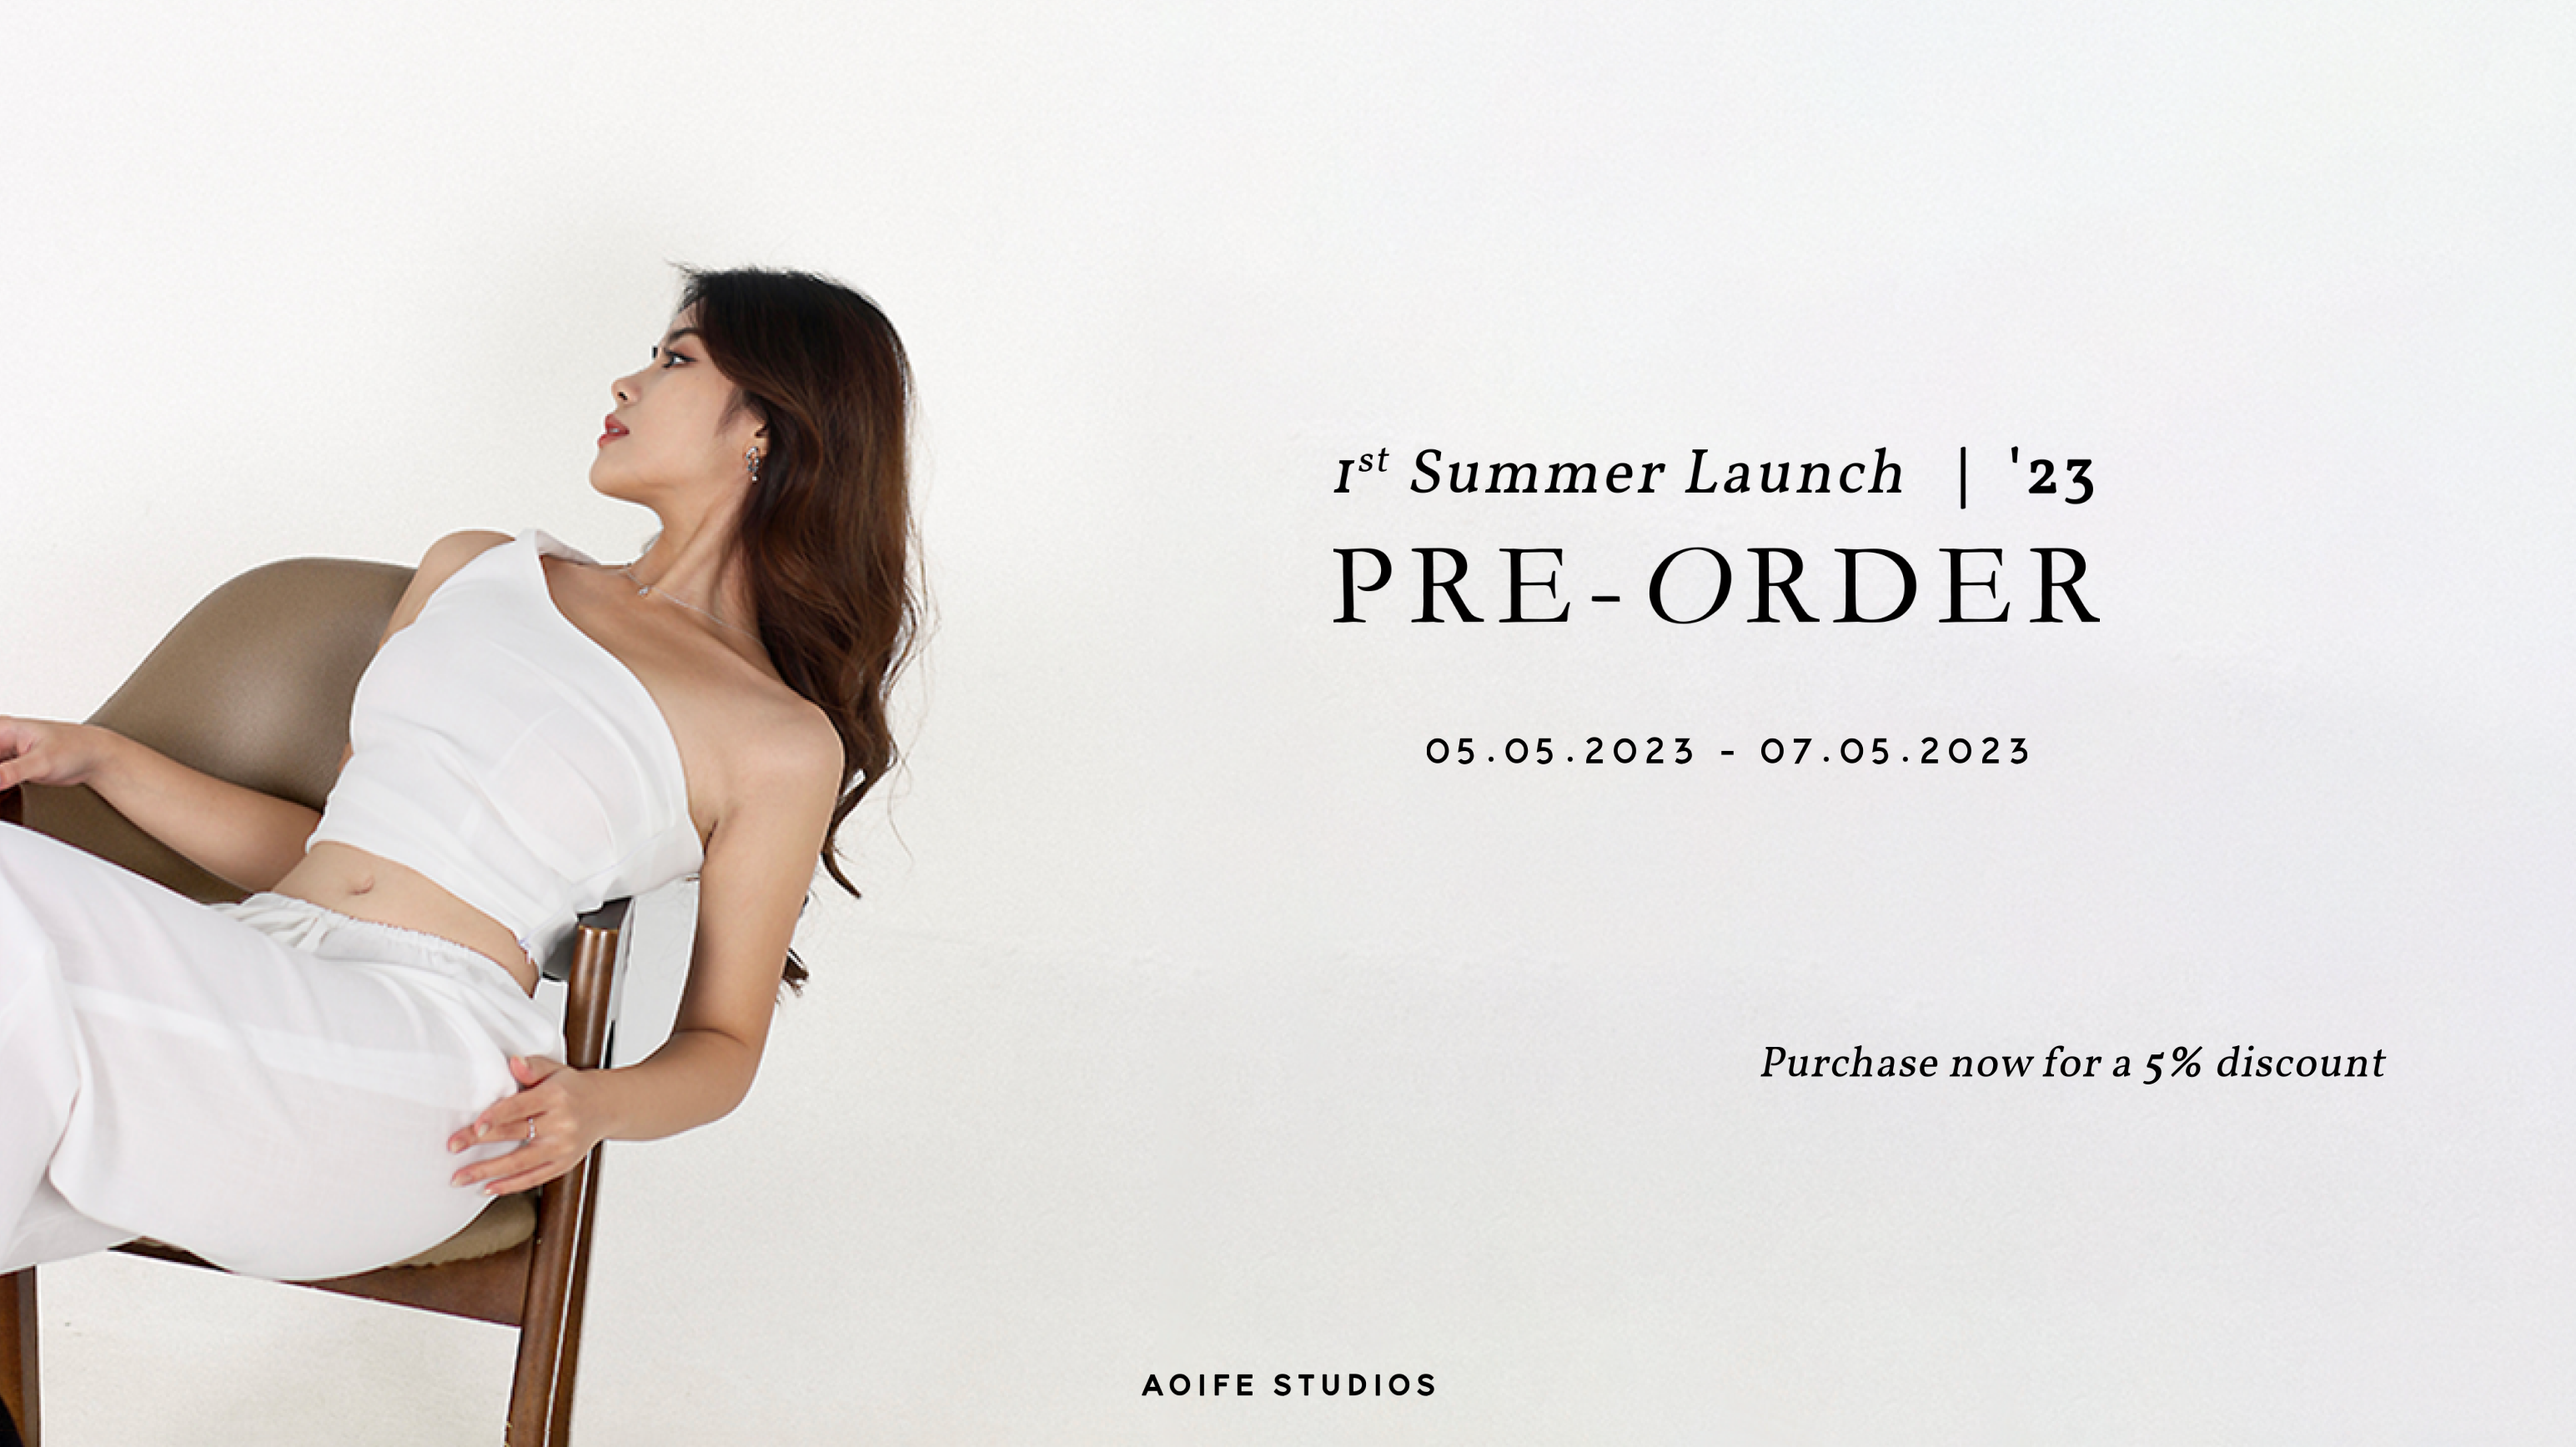
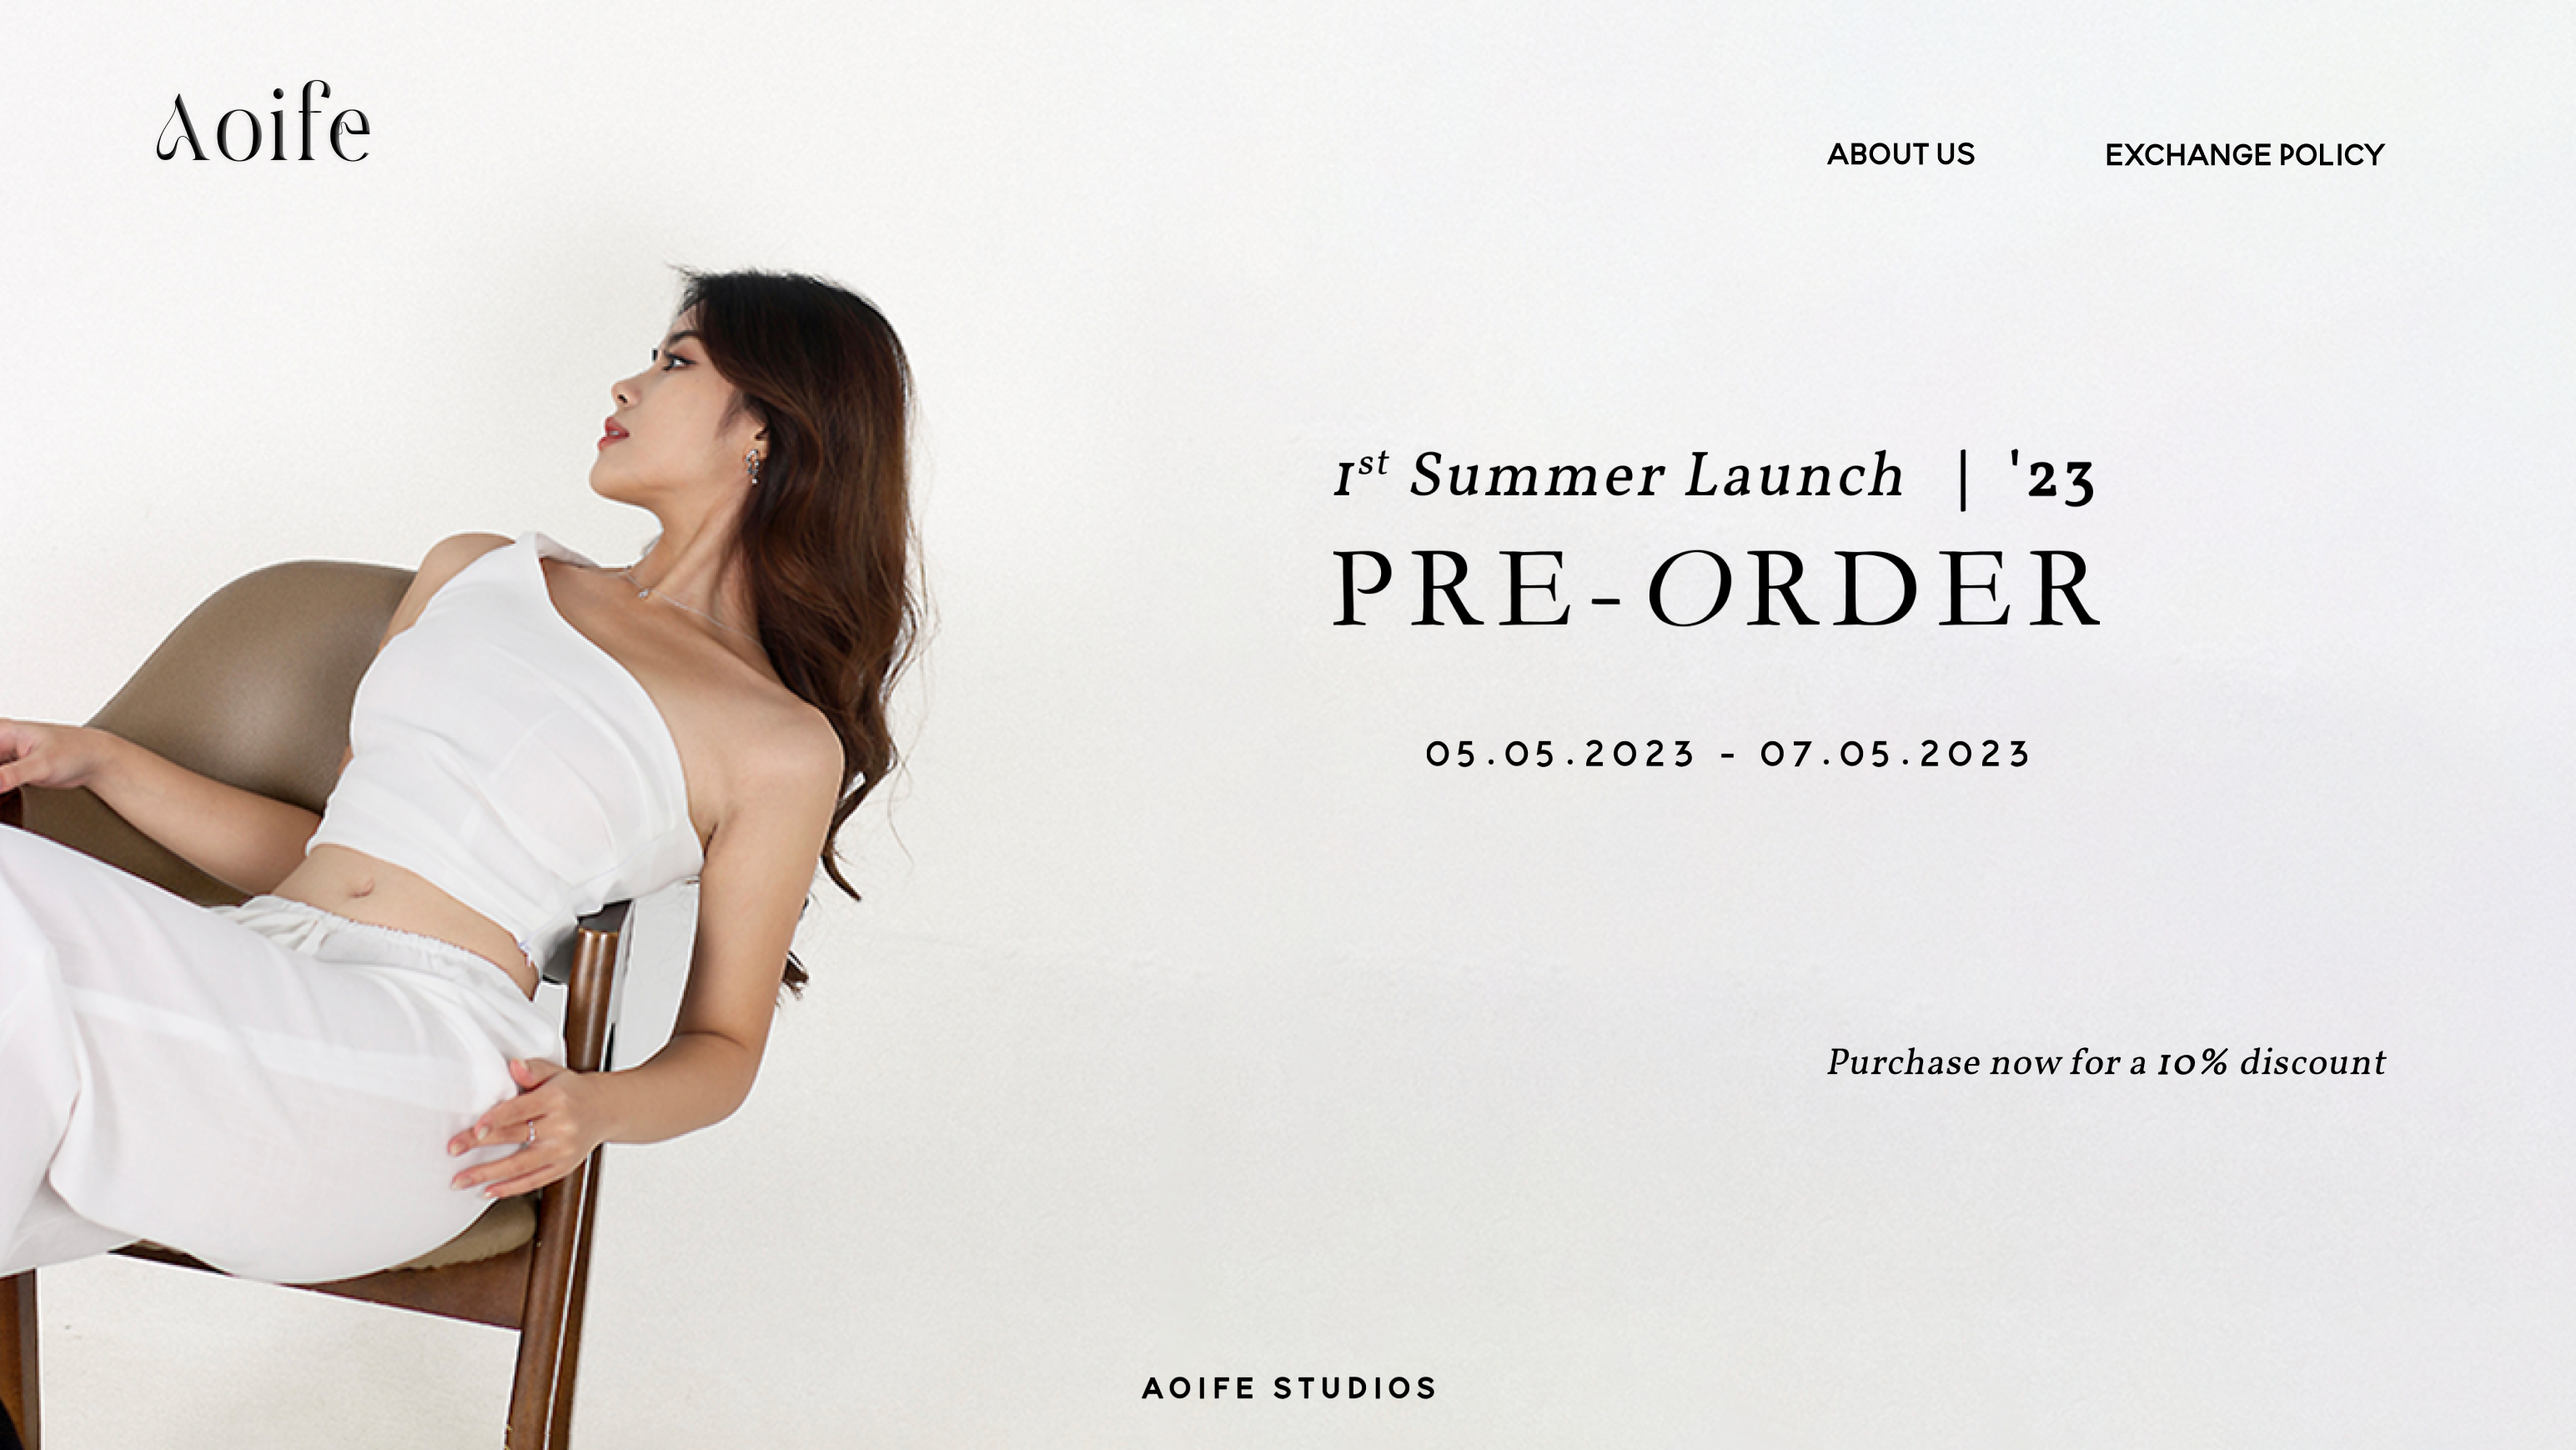
change to 10%

diff --git a/about.html b/about.html
@@ -5,7 +5,7 @@
 	<meta name='viewport' content='width=device-width,initial-scale=1'>
 
 	<title>About</title>
-
+	<link rel="shortcut icon" href="assets\favicon-32x32.png" />
 	<link rel='icon' type='image/png' href='/favicon.png'>
 	<link rel='stylesheet' href='/style.css'>
 	<link rel='stylesheet' href='/build/bundle.css'>

diff --git a/vite.config.ts b/vite.config.ts
@@ -4,7 +4,6 @@ import { resolve } from 'path'
 
 // https://vitejs.dev/config/
 export default defineConfig({
-  base: "/Aoife/",
   plugins: [svelte()],
   build: {
     rollupOptions: {
